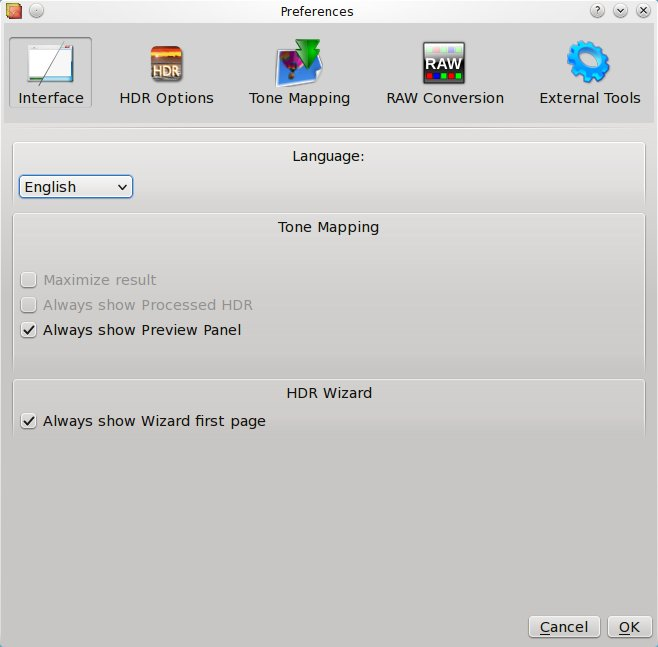
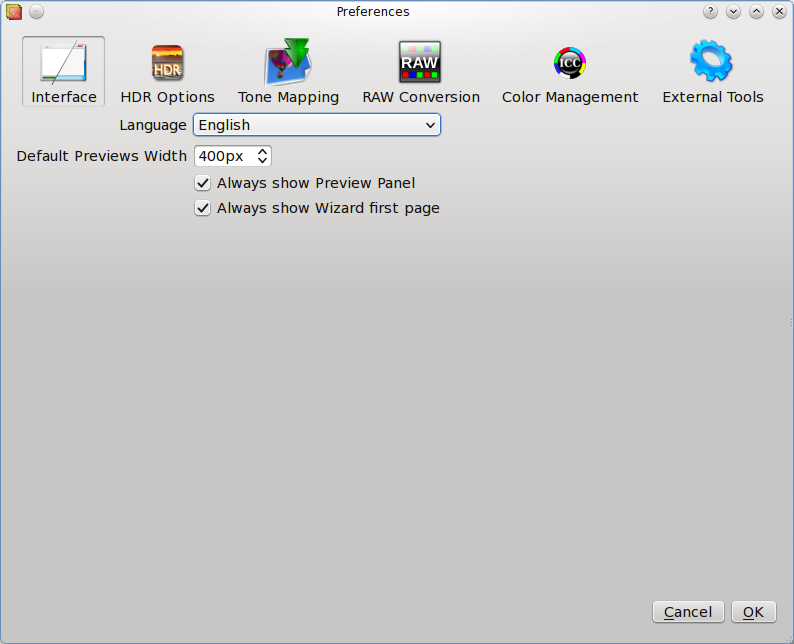
[Help]: Some updates

diff --git a/help/en/news.html b/help/en/news.html
@@ -12,28 +12,24 @@
 <p>The version you are looking at contains a number of improvements over the 
 previous one, such as:</p>
 
-	<ul>
-	<li>New SDI interface</li>
-	<li>LibRaw for handling RAW images and a nice tool to configure its settings </li>
-	<li>It is now possible to select the output image size for batch processing</li>
-	<li>Centralized database to save tonemapping parameters with the possibility to add a short comment to each set of parameters</li>
-	<li>It is now possible to add and remove images before processing them in HDR Wizard</li>
-	<li>New Preview Panel. It shows small preview images for each operator based on the currently open image</li>
+<ul>
+	<li>Color Management Support (read/write ICC profiles, soft proofing, gamut check)</li>
+	<li>Selection of output image size and quality in Batch TM</li>
+	<li>Fixed memory leak in Batch HDR</li>
+	<li>Fattal and Reinhard02 now thread safe (speed improvement with multicore processors)</li>
+	<li>Windows: Better OS Integration</li>
 	<li>Other small impovements and bugfixing as usual</li>
-	</ul>
-<p>Previous release features:</p>
+</ul>
+<p>Previous release features and fixes:</p>
 
 <ul>
-	<li>Qtpfsgui is finally renamed to Luminance HDR;</li>
-	<li>HDR images can now be cropped (to a new HDR image);</li>
-	<li>original HDR image can be displayed in tonemapping dialog;</li>
-	<li>thus tonemapping of selection is possible now;</li>
-	<li>view of Tonemapped LDR images can now be locked to sync navigation;</li>
-	<li>new tonemapping operator, Mantiuk'08, was added;</li>
-	<li>active tone mapping processes dialog;</li>
-	<li>you can undo and redo changes in TM operator settings (full actions history system still not implemented);</li>
-	<li>new help browser (taken from Scribus/Fontmatrix) and new localizable documentation;</li>
-	<li>new progress vizualization</li>
+	<li>Splitted executable luminance-hdr-cli for commandline mode</li>
+	<li>Aborting batch HDR creation and batch tonemapping is now possible</li>
+	<li>Speed improvements in Reinhard05</li>
+	<li>Language change without restarting application</li>
+	<li>Corrected detection of exif rotation</li>
+	<li>Windows: TIFF support now works correctly</li>
+	<li>Windows: fixed some align_image_stack and temp dir problems</li>
 </ul>
 
 <p>Due to lack of active developers please don't expect much other than cleanups and documentation updates in the coming releases.</p>

diff --git a/help/en/prefs_tonemapping.html b/help/en/prefs_tonemapping.html
@@ -9,14 +9,20 @@
 <body>
 <h2>Tone Mapping</h2>
 
-<p><b>Cache</b>. Luminance HDR needs a directory to save temporary files to. By default home 
+<p><b>Temporary Working Folder</b>. Luminance HDR needs a directory to save temporary files to. By default home 
 directory is used, but you can specify some other directory.</p>
 
 <p>You can also specify two options for Batch Tone Mapping feature:</p>
 
-<p><b>File format for LDR images</b>. This is the file format to which tonemapped LDR images will be saved to. JPEG, PNG, PPM, PBM and BMP are your options. </p>
+<p><b></b><strong>Batch Tonemapping Default Output Format</strong>. This is the file format to which tonemapped LDR images will be saved to. TIFF, JPEG, PNG, PPM, PBM and BMP are your options.
+    </p>
 
-<p><b>Number of threads</b>. How many threads you want to use. Each thread gets allocated to a different CPU or a core of a multicore CPU.</p>
+<p><b>Batch Tonemapping Number of threads</b>. How many threads you want to use. Each thread gets allocated to a different CPU or a core of a multicore CPU. 
+      <br />
+      <br />
+      <br />
+      <img height="644" width="794" src="images/prefs-tm.png" /><br />
+    </p>
 
 </body>
 </html>

diff --git a/help/en/prefs_tools.html b/help/en/prefs_tools.html
@@ -38,7 +38,11 @@
 <dd>Verbose, print progress messages.  Repeat for higher verbosity</dd>
 </dl>
 
-<p>By default Luminance HDR just defines prefix for aligned images: <tt>-a aligned_</tt> and for verbose printing <tt>-v</tt>.
+<p>By default Luminance HDR just defines prefix for aligned images: <tt>-a aligned_</tt> and for verbose printing <tt>-v</tt>. 
+      <br />
+      <br />
+      <br />
+      <img height="644" width="794" src="images/prefs-ext.png" /><br />
     </p>
 
 </body>

diff --git a/help/en/prefs.html b/help/en/prefs.html
@@ -9,7 +9,9 @@
 <body>
 <h2>Setting up</h2>
 
-<p>You can configure behaviour of Luminance HDR using Preferences dialog available via <em>Tools&nbsp;&gt; Preferences...</em> menu item.
+<p>You can configure behaviour of Luminance HDR using Preferences dialog available via <em>Tools&nbsp;&gt; Preferences...</em> menu item. 
+      <br />
+      <br />
       <br />
       <br />
       <img height="647" width="658" alt="Preferences Dialog" src="images/preferences.png" /><br />

diff --git a/help/en/prefs_hdr.html b/help/en/prefs_hdr.html
@@ -17,7 +17,13 @@
 
 <h2>HDR Visualization</h2>
 
-<p>Click on the buttons to pop-up a window that lets you choose which color to use for the nan/inf and for the negative values.</p>
+<p>Click on the buttons to pop-up a window that lets you choose which color to use for the nan/inf and for the negative values. 
+      <br />
+      <br />
+      <br />
+      <br />
+      <img height="644" width="794" src="images/prefs-hdr.png" /><br />
+    </p>
 
 </body>
 </html>

diff --git a/help/en/prefs_rawconversion.html b/help/en/prefs_rawconversion.html
@@ -93,9 +93,17 @@ Set here the magnification factor of the red layer
 </p>
 <p>
 <b>Blue multiplier</b><br />
-Set here the magnification factor of the blue layer
-</p>
-<h3>Color Management</h3>
-<p>Not yet implemented</p>
+Set here the magnification factor of the blue layer 
+      <br />
+      <br />
+      <br />
+      <img height="644" width="794" src="images/prefs-raw.png" /><br />
+    </p>
+<h3>
+      
+    </h3>
+<p>
+      
+    </p>
 </body>
 </html>
